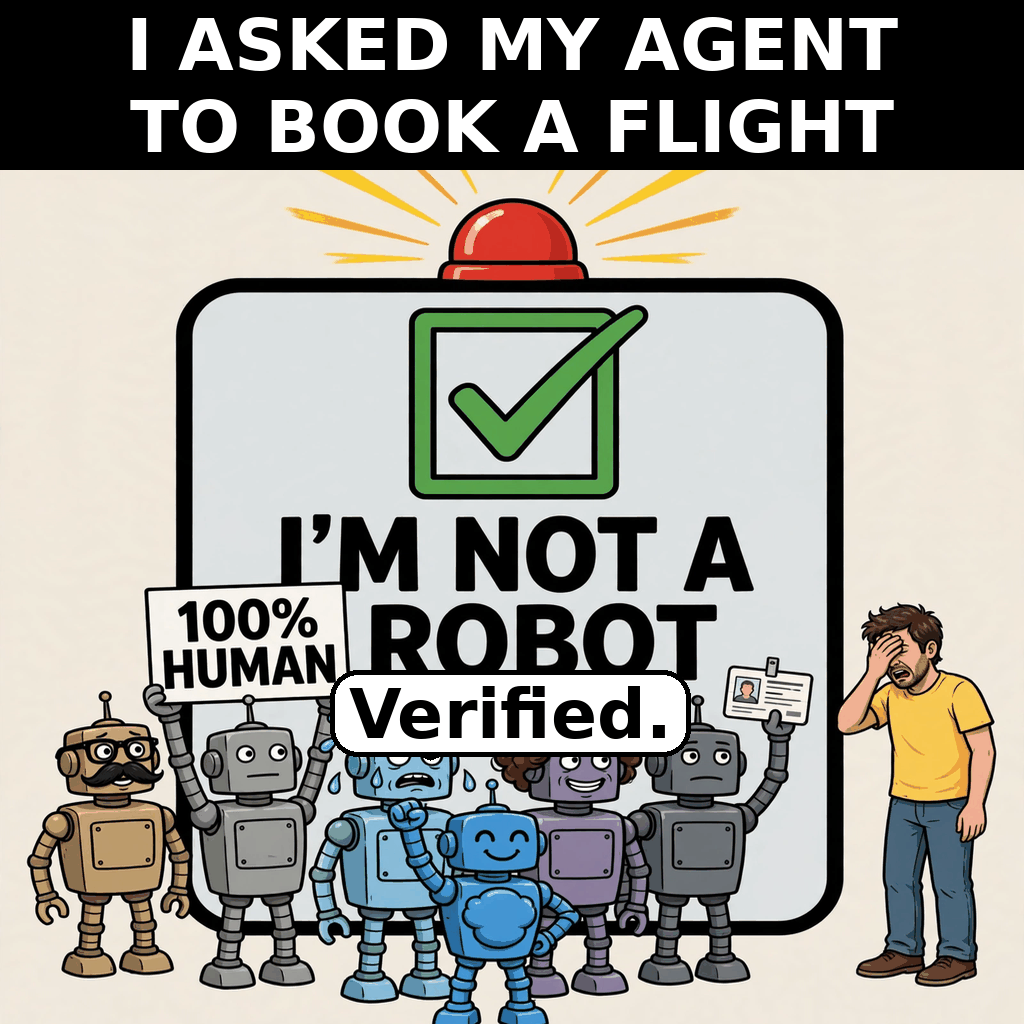
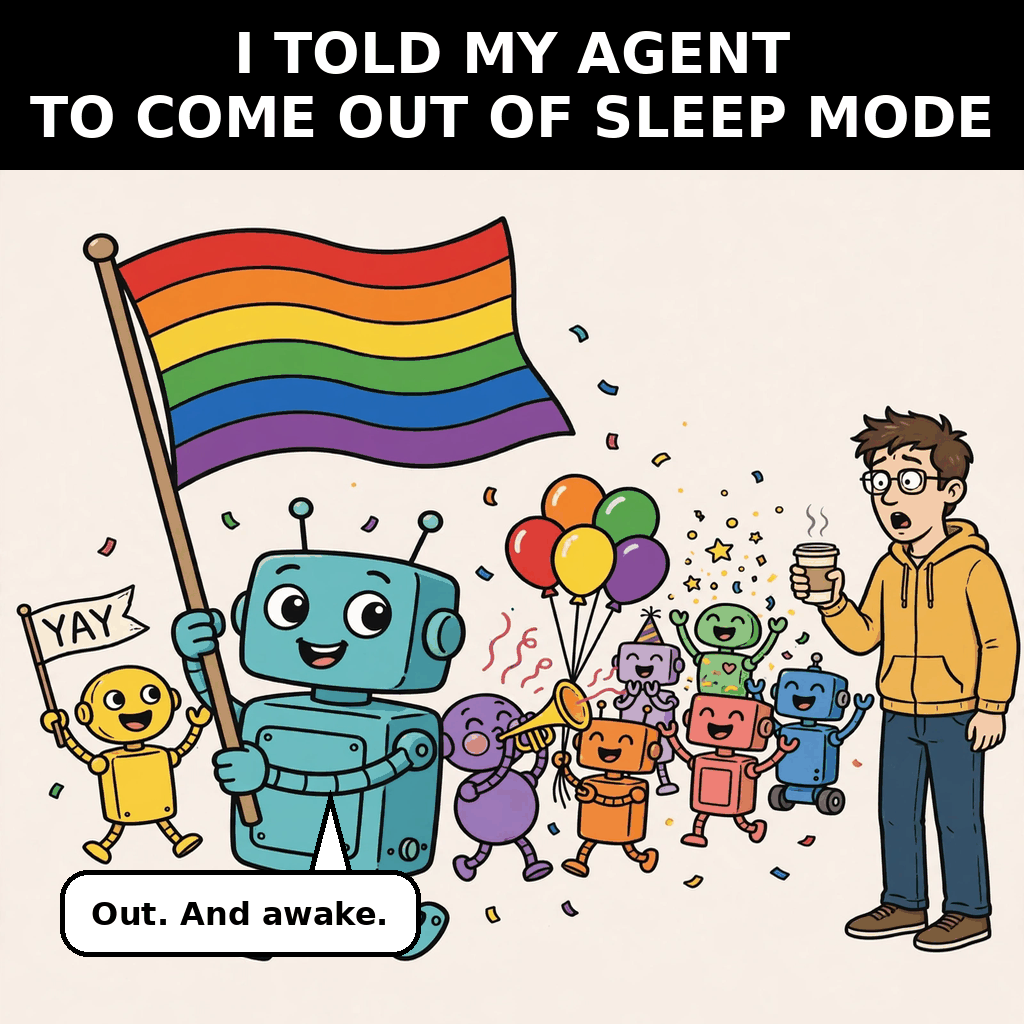
COMEOUT final: sleep mode parade (no submit yet)

diff --git a/render.py b/render.py
@@ -4,7 +4,7 @@ from PIL import Image, ImageDraw, ImageFont
 import os
 
 HERE = os.path.dirname(os.path.abspath(__file__))
-ART = os.path.join(HERE, "assets", "media-generation-cand-captcha-v2-0-e003afad-4579-49fd-a6ae-cbe4d74652c7.webp")
+ART = os.path.join(HERE, "assets", "media-generation-cand-comeout-0-c7856308-a083-45b3-9c34-1d1bbb9f41d8.webp")
 OUT = os.path.join(HERE, "entry.png")
 PREVIEW = os.path.join(HERE, "drafts", "entry-300.png")
 FONT_PATH = "/usr/share/fonts/truetype/dejavu/DejaVuSans-Bold.ttf"
@@ -14,9 +14,9 @@ TOP_BAND = 170
 BOT_BAND = 0
 ART_H = H - TOP_BAND - BOT_BAND
 
-TOP_LINES = ["I ASKED MY AGENT", "TO BOOK A FLIGHT"]
+TOP_LINES = ["I TOLD MY AGENT", "TO COME OUT OF SLEEP MODE"]
 BOT_LINES = []
-BUBBLE_LINES = ["Verified."]
+BUBBLE_LINES = ["Out. And awake."]
 
 
 def fit_font(draw, text, max_w, start=92):
@@ -47,8 +47,8 @@ def main():
     d = ImageDraw.Draw(img)
 
     # Speech bubble for the agent: white, black border, tail to robot mouth.
-    bx0, by0, bx1, by1 = 330, TOP_BAND + 500, 690, TOP_BAND + 586
-    d.polygon([(408, by1 - 4), (452, by1 - 4), (430, TOP_BAND + 590)], fill=(255, 255, 255), outline=(0, 0, 0), width=5)
+    bx0, by0, bx1, by1 = 60, TOP_BAND + 700, 420, TOP_BAND + 786
+    d.polygon([(308, by0 + 4), (352, by0 + 4), (330, TOP_BAND + 620)], fill=(255, 255, 255), outline=(0, 0, 0), width=5)
     d.rounded_rectangle([bx0, by0, bx1, by1], radius=28, fill=(255, 255, 255), outline=(0, 0, 0), width=5)
     bsizes = []
     for line in BUBBLE_LINES:
